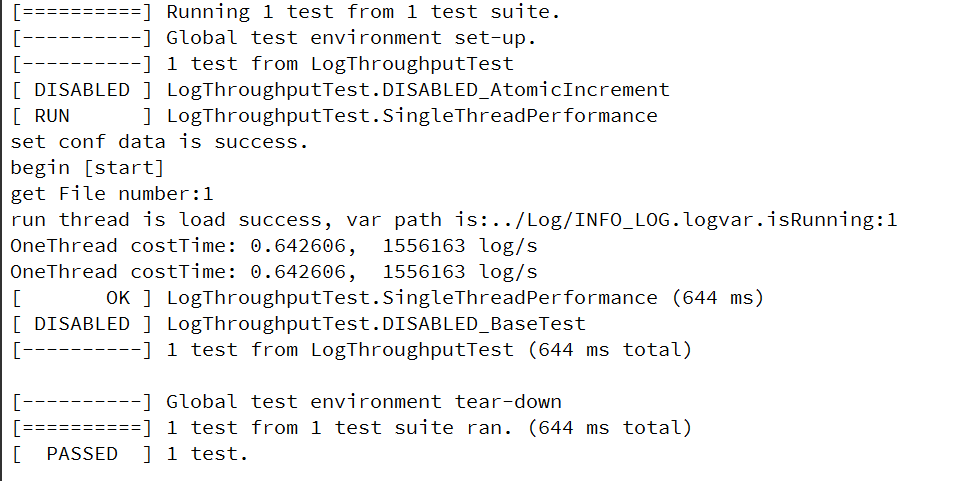
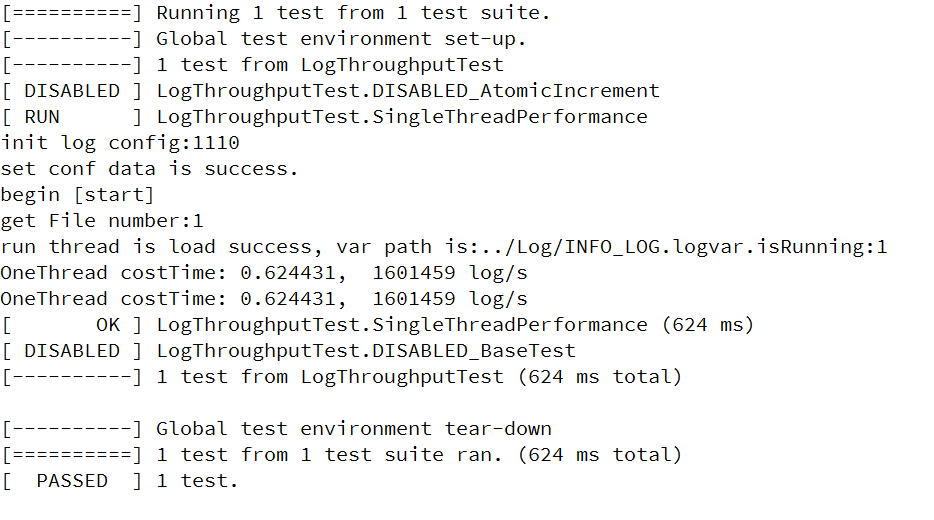
新增一个 destory 函数；修改模板类名称

Changed region(s): [[0.0, 0.0, 0.9625, 0.7484], [0.0, 0.8108, 0.7141, 0.9667]]

diff --git a/Wopes/ACore/aUtil/internal_singleton.h b/Wopes/ACore/aUtil/internal_singleton.h
@@ -4,9 +4,12 @@
 #include <atomic>
 #include <mutex>
 
+// 单例模板
+// NOTE 写了三个模板，懒汉基础版，懒汉线程安全版，饿汉版
+
 /** 懒汉模板 */
 template<typename className>
-class InternalSingleton
+class SingletonLazy
 {
 public:
     static className* instance()
@@ -28,53 +31,62 @@ public:
     };
 
 protected:
-    InternalSingleton() {};
-    virtual ~InternalSingleton() {};
+    SingletonLazy() {};
+    virtual ~SingletonLazy() {};
 
 private:
-    InternalSingleton(const InternalSingleton&) = delete;
-    InternalSingleton(const InternalSingleton&&) = delete;
-    void operator=(const InternalSingleton&) = delete;
+    SingletonLazy(const SingletonLazy&) = delete;
+    SingletonLazy(const SingletonLazy&&) = delete;
+    void operator=(const SingletonLazy&) = delete;
     static className* mInstance;
 };
 template<typename className>
-className* InternalSingleton<className>::mInstance = nullptr; // 初始化为T类型的默认值
+className* SingletonLazy<className>::mInstance = nullptr; // 初始化为T类型的默认值
 
 /** 懒汉模板（线程安全模式） */
-template<typename lazyClass>
-class SingletonLazy
+template<typename lazySafeClass>
+class SingletonLazySafe
 {
 public:
-    static lazyClass* instance()
+    static lazySafeClass* instance()
     {
-        lazyClass* tmp = mInstance.load(std::memory_order_relaxed);
+        lazySafeClass* tmp = mInstance.load(std::memory_order_relaxed);
         if (tmp == nullptr)
         {
             std::lock_guard<std::mutex> lock(mtx); // 加锁
             tmp = mInstance.load(std::memory_order_relaxed);
             if (tmp == nullptr)
             {
-                tmp = new lazyClass();
+                tmp = new lazySafeClass();
                 mInstance.store(tmp, std::memory_order_release);
             }
         }
         return tmp;
     }
 
+    static void destroy()
+    {
+        if (mInstance != nullptr)
+        {
+            delete mInstance;
+            mInstance = nullptr;
+        }
+    };
+
 protected:
-    SingletonLazy() {};
-    virtual ~SingletonLazy() {};
+    SingletonLazySafe() {};
+    virtual ~SingletonLazySafe() {};
 
 private:
-    static std::atomic<lazyClass*> mInstance; // 原子指针
+    static std::atomic<lazySafeClass*> mInstance; // 原子指针
     static std::mutex mtx;
-    SingletonLazy(const SingletonLazy&) = delete;
-    SingletonLazy& operator=(const SingletonLazy&) = delete;
+    SingletonLazySafe(const SingletonLazySafe&) = delete;
+    SingletonLazySafe& operator=(const SingletonLazySafe&) = delete;
 };
-template<typename lazyClass>
-std::atomic<lazyClass*> SingletonLazy<lazyClass>::mInstance(nullptr);
-template<typename lazyClass>
-std::mutex SingletonLazy<lazyClass>::mtx;
+template<typename lazySafeClass>
+std::atomic<lazySafeClass*> SingletonLazySafe<lazySafeClass>::mInstance(nullptr);
+template<typename lazySafeClass>
+std::mutex SingletonLazySafe<lazySafeClass>::mtx;
 
 /** 饿汉模板（注：只能支持到毫秒级） */
 template<typename eagerClass>
@@ -86,6 +98,15 @@ public:
         std::lock_guard<std::mutex> lock(mtx); // 加锁
         return mInstance;                      // 直接返回已初始化的实例
     }
+
+    static void destroy()
+    {
+        if (mInstance != nullptr)
+        {
+            delete mInstance;
+            mInstance = nullptr;
+        }
+    };
 
 protected:
     SingletonEager() {};

diff --git a/Wopes/ACore/aLog/log_config.cpp b/Wopes/ACore/aLog/log_config.cpp
@@ -1,5 +1,7 @@
 #include "log_config.h"
 
+#include <iostream>
+
 LogConfig::LogConfig()
 {
     configPtr = std::make_unique<BaseConfig>();
@@ -75,6 +77,11 @@ void LogConfig::setImplement(const bool &var)
 bool LogConfig::isImplement() const
 {
     return configPtr->implement;
+}
+
+void LogConfig::printConfig()
+{
+    std::cout << "init log config:" << configPtr->dateLogLongUse << configPtr->dateLogTemp << configPtr->consoleOutput << configPtr->implement << std::endl;
 }
 
 bool LogConfig::isDataLogLongUse() const

diff --git a/Wopes/ACore/aLog/log_system.h b/Wopes/ACore/aLog/log_system.h
@@ -6,10 +6,10 @@
 #include "log_controller.h"
 #include "log_data_param.h"
 
-class ACORE_EXPORT LogSystem : public SingletonLazy<LogSystem>
+class ACORE_EXPORT LogSystem : public SingletonLazySafe<LogSystem>
 {
 public:
-    friend class SingletonLazy<LogSystem>;
+    friend class SingletonLazySafe<LogSystem>;
 
     void setMessage(const char* format, ...);
 

diff --git a/Wopes/ACore/aLog/log_config.h b/Wopes/ACore/aLog/log_config.h
@@ -85,8 +85,10 @@ public:
 
     /** 设置实时输入 */
     void setImplement(const bool &var);
-    /** 实时输入 */
+    /** 是否实时输入 */
     bool isImplement() const;
+
+    void printConfig();
 
 private:
     unique_ptr<BaseConfig> configPtr;

diff --git a/Wopes/ACore/aLog/log_controller.cpp b/Wopes/ACore/aLog/log_controller.cpp
@@ -11,6 +11,8 @@ LogController::LogController()
     logFile = new LogFile;
 
     logFile->setFileSetting(feilSetting);
+
+    feilSetting->printConfig();
 }
 
 LogController::~LogController()

diff --git a/doc/zh/Log.md b/doc/zh/Log.md
@@ -37,7 +37,7 @@ include(${core_path}/acore.cmake) # 其中 core_path 为日志系统路径
  性能测试 | 测试值 |
 | ----------- | ----------- |
 | 写入速度（debug模式） | 70w logs/s~80w logs/s |
-| 写入速度（release模式）| 155w logs/s |
+| 写入速度（release模式）| 160w logs/s |
 | ns/op（release模式）| 4.2k ns/op |
 
 如下图写入速度测试（release模式）：
